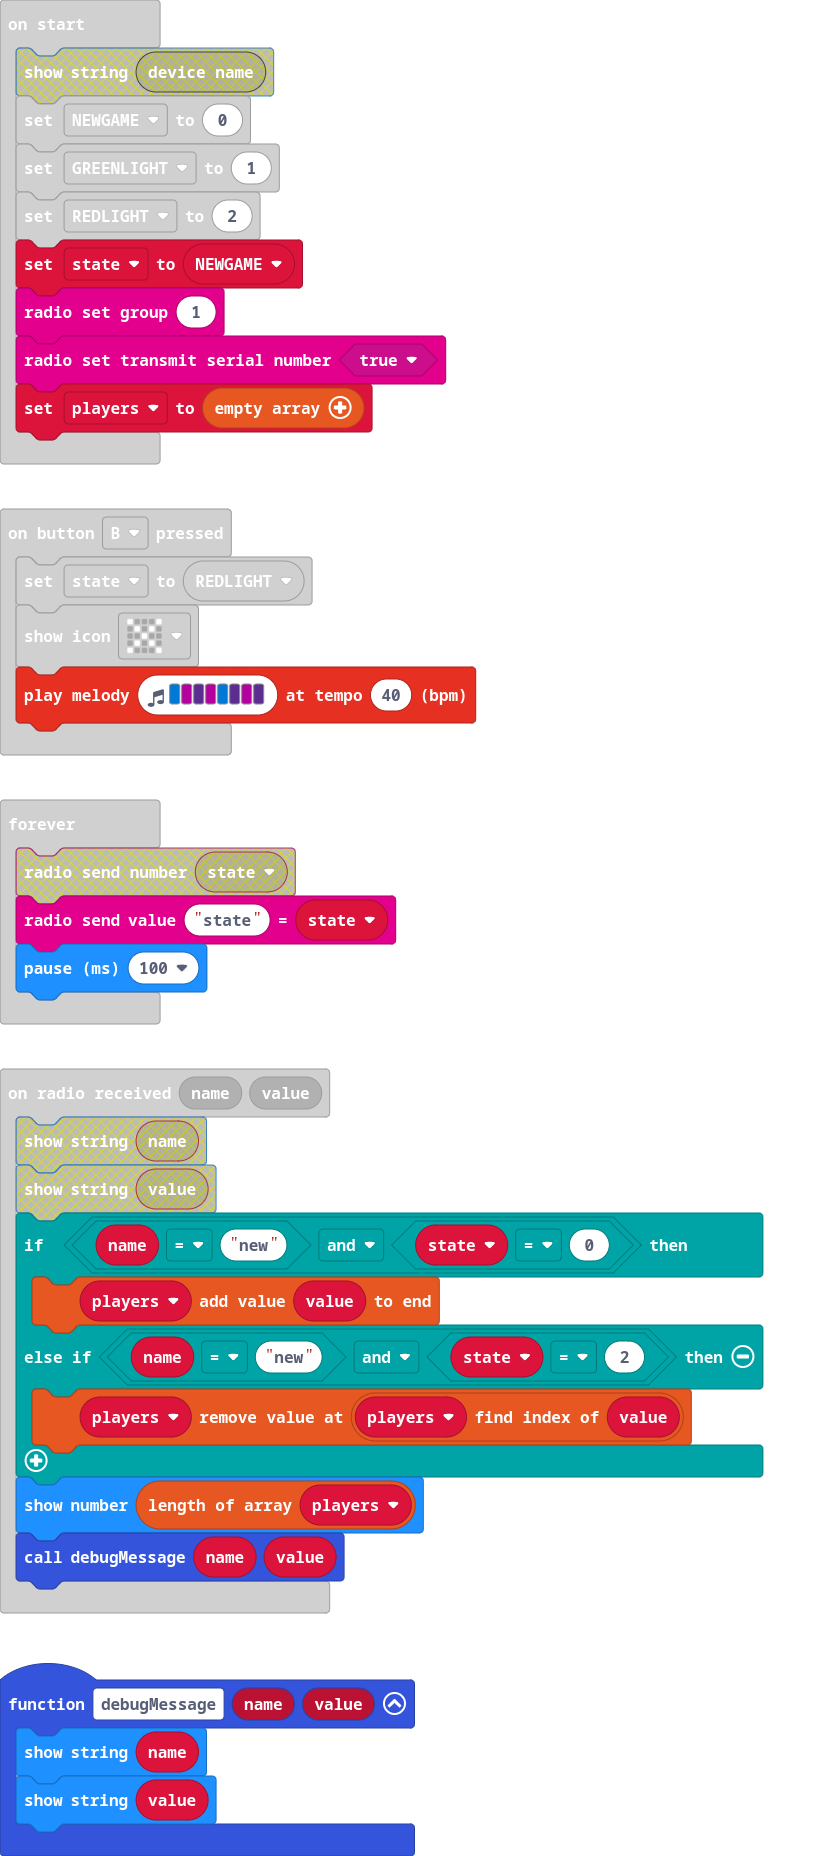
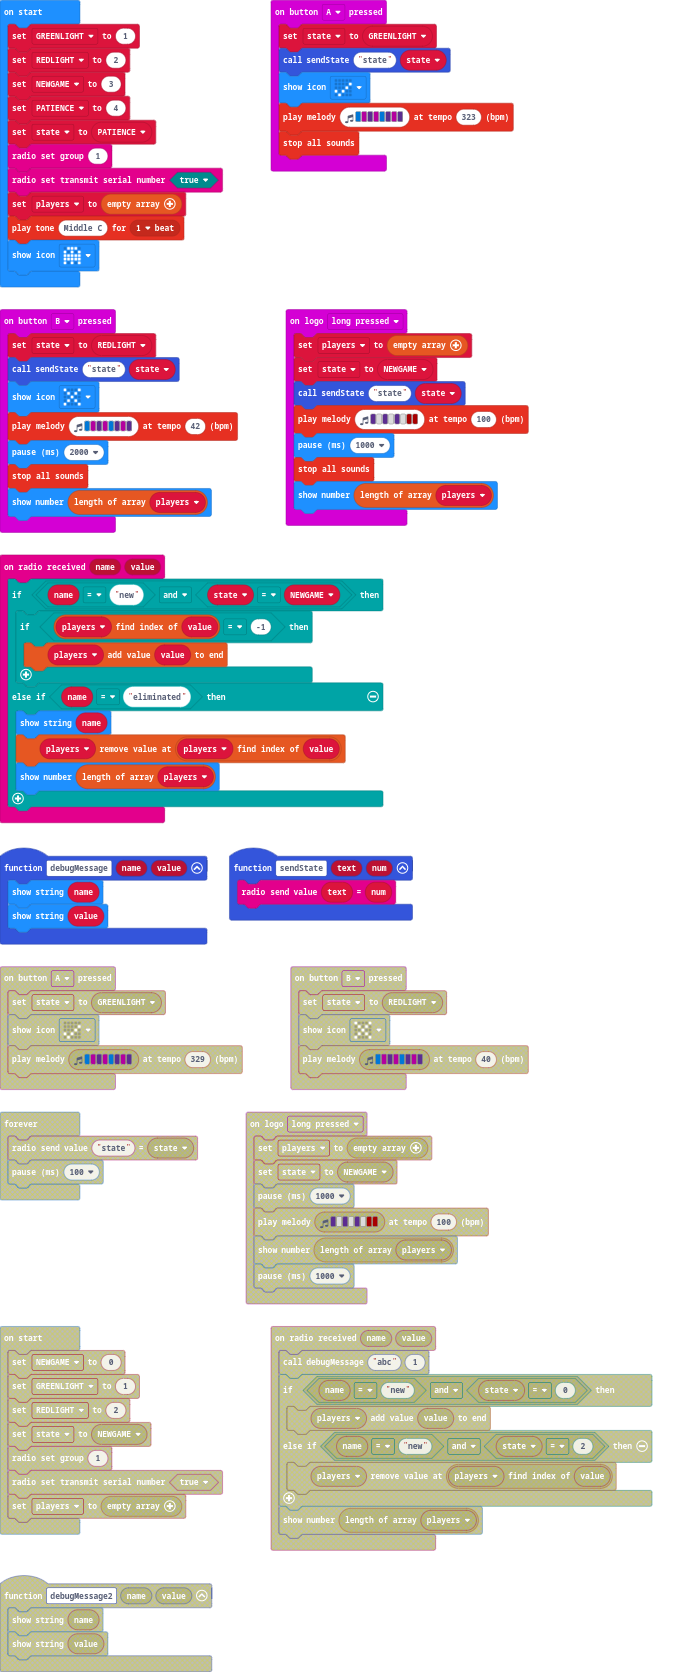
[fix] adding new players

diff --git a/main.ts b/main.ts
@@ -1,15 +1,18 @@
 input.onLogoEvent(TouchButtonEvent.LongPressed, function () {
     players = []
     state = NEWGAME
-    basic.pause(1000)
+    sendState("state", state)
     music.playMelody("D - D - D - C5 C5 ", 100)
-    basic.showNumber(players.length)
     basic.pause(1000)
+    music.stopAllSounds()
+    basic.showNumber(players.length)
 })
 input.onButtonPressed(Button.A, function () {
     state = GREENLIGHT
+    sendState("state", state)
     basic.showIcon(IconNames.Yes)
-    music.playMelody("E C D C E D C D ", 329)
+    music.playMelody("E C D C E D C D ", 323)
+    music.stopAllSounds()
 })
 function debugMessage (name: string, value: number) {
     basic.showString(name)
@@ -17,31 +20,39 @@ function debugMessage (name: string, value: number) {
 }
 input.onButtonPressed(Button.B, function () {
     state = REDLIGHT
+    sendState("state", state)
     basic.showIcon(IconNames.No)
-    music.playMelody("E C D C E D C D ", 40)
-})
-radio.onReceivedValue(function (name, value) {
-    debugMessage(name, value)
-    if (name == "new" && state == 0) {
-        players.push(value)
-    } else if (name == "new" && state == 2) {
-        players.removeAt(players.indexOf(value))
-    }
+    music.playMelody("E C D C E D C D ", 42)
+    basic.pause(2000)
+    music.stopAllSounds()
     basic.showNumber(players.length)
 })
+radio.onReceivedValue(function (name, value) {
+    if (name == "new" && state == NEWGAME) {
+        if (players.indexOf(value) == -1) {
+            players.push(value)
+        }
+    } else if (name == "eliminated") {
+        basic.showString(name)
+        players.removeAt(players.indexOf(value))
+        basic.showNumber(players.length)
+    }
+})
+function sendState (text: string, num: number) {
+    radio.sendValue(text, num)
+}
 let players: number[] = []
 let state = 0
+let NEWGAME = 0
 let REDLIGHT = 0
 let GREENLIGHT = 0
-let NEWGAME = 0
-NEWGAME = 0
 GREENLIGHT = 1
 REDLIGHT = 2
-state = NEWGAME
+NEWGAME = 3
+let PATIENCE = 4
+state = PATIENCE
 radio.setGroup(1)
 radio.setTransmitSerialNumber(true)
 players = []
-basic.forever(function () {
-    radio.sendValue("state", state)
-    basic.pause(100)
-})
+music.playTone(262, music.beat(BeatFraction.Whole))
+basic.showIcon(IconNames.Ghost)
